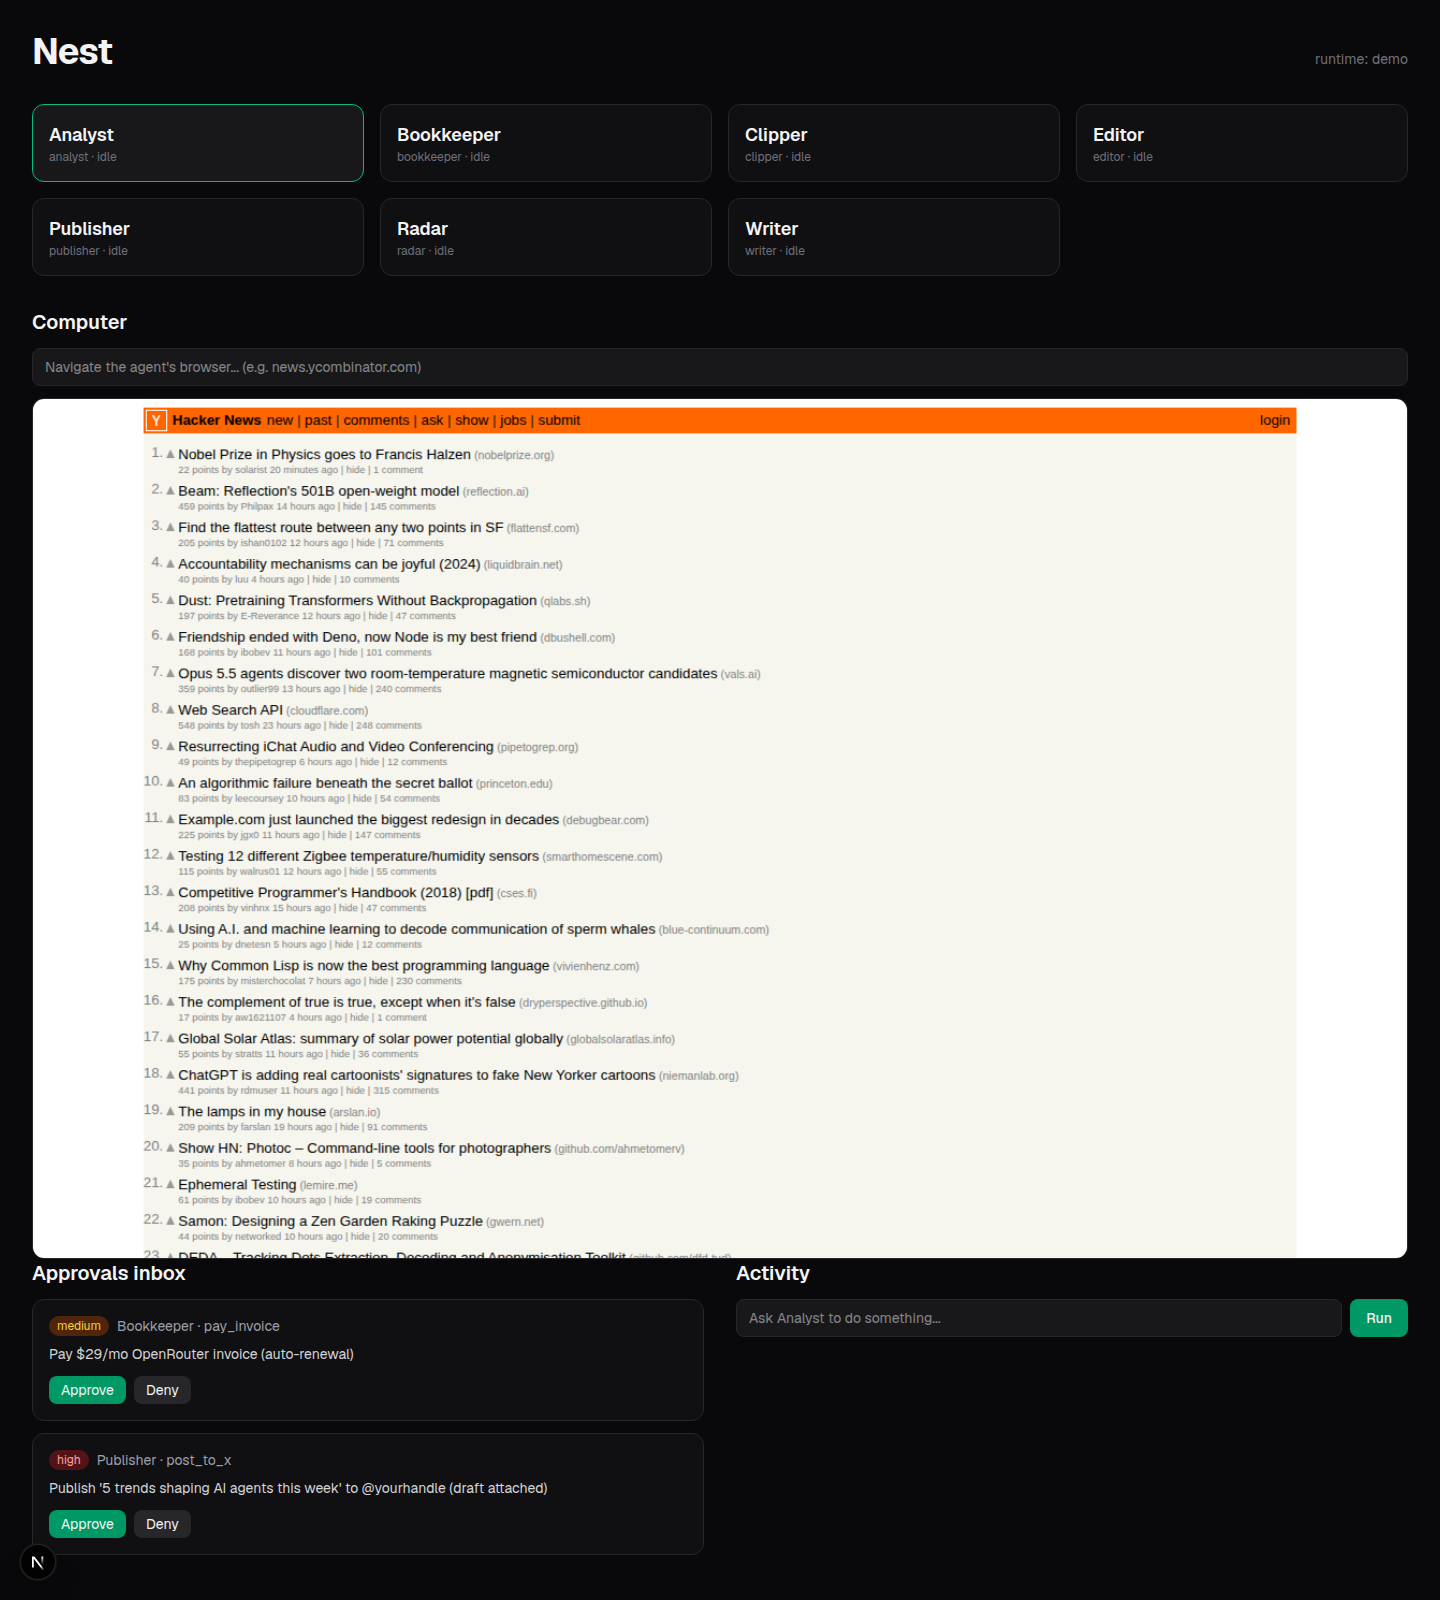
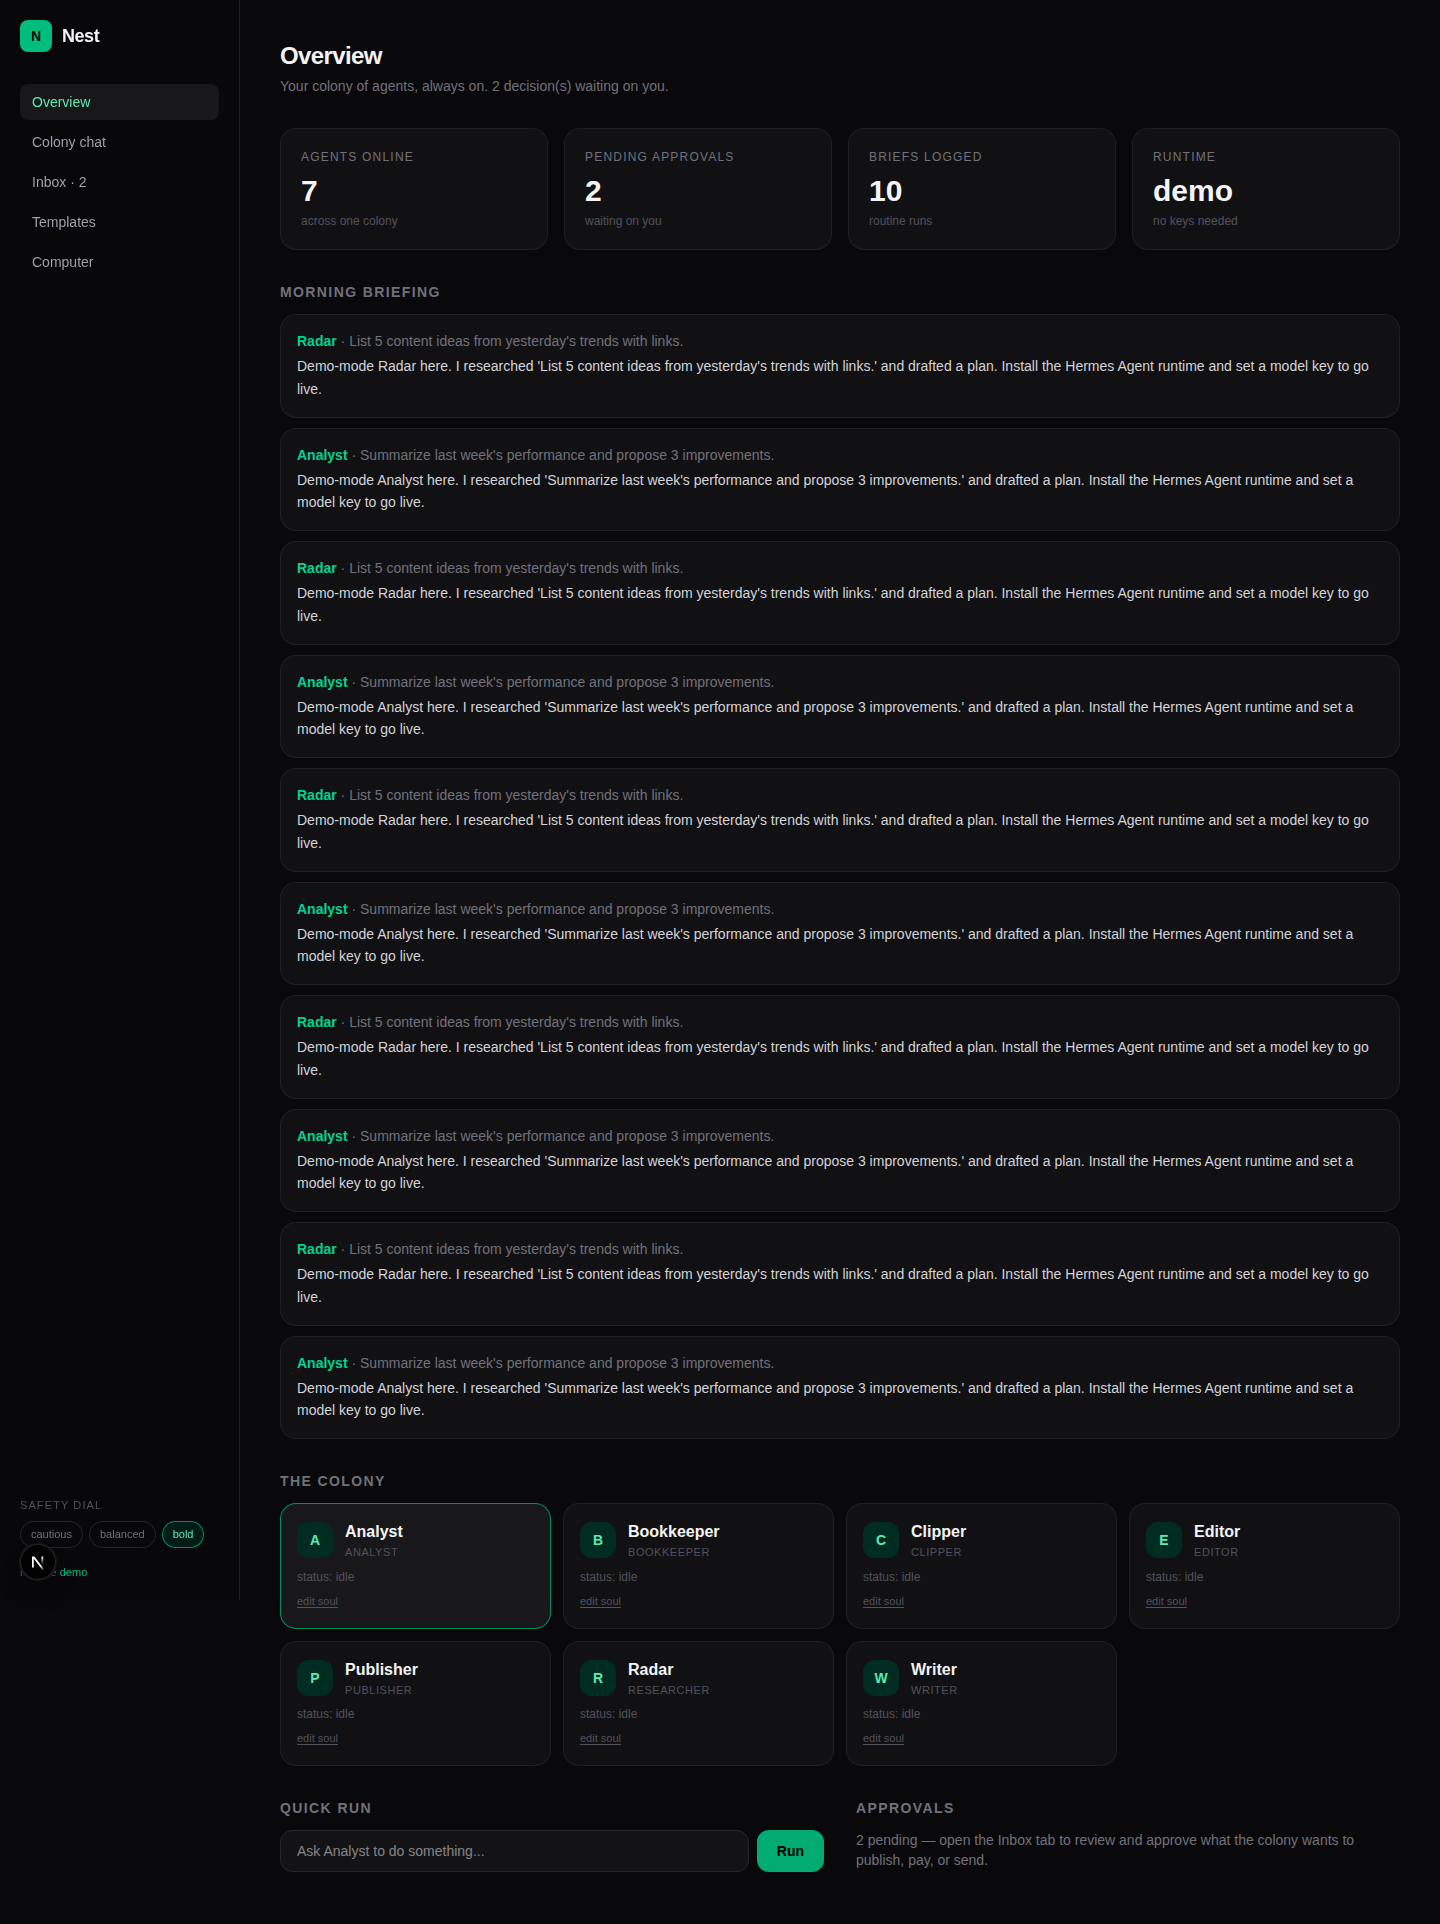
v1.0: launch polish — new screenshot, repo metadata, badges

diff --git a/README.md b/README.md
@@ -1,5 +1,7 @@
 # Nest
 
+[![License: MIT](https://img.shields.io/badge/License-MIT-green.svg)](LICENSE) ![Status](https://img.shields.io/badge/status-beta-emerald)
+
 > A colony of always-on AI agents that run your one-person content business. The open-source answer to Grok Bot, OpenAI Dots, and Meta Muse.
 
 Free forever. MIT. Local-first. Your keys, your data, your agents.
